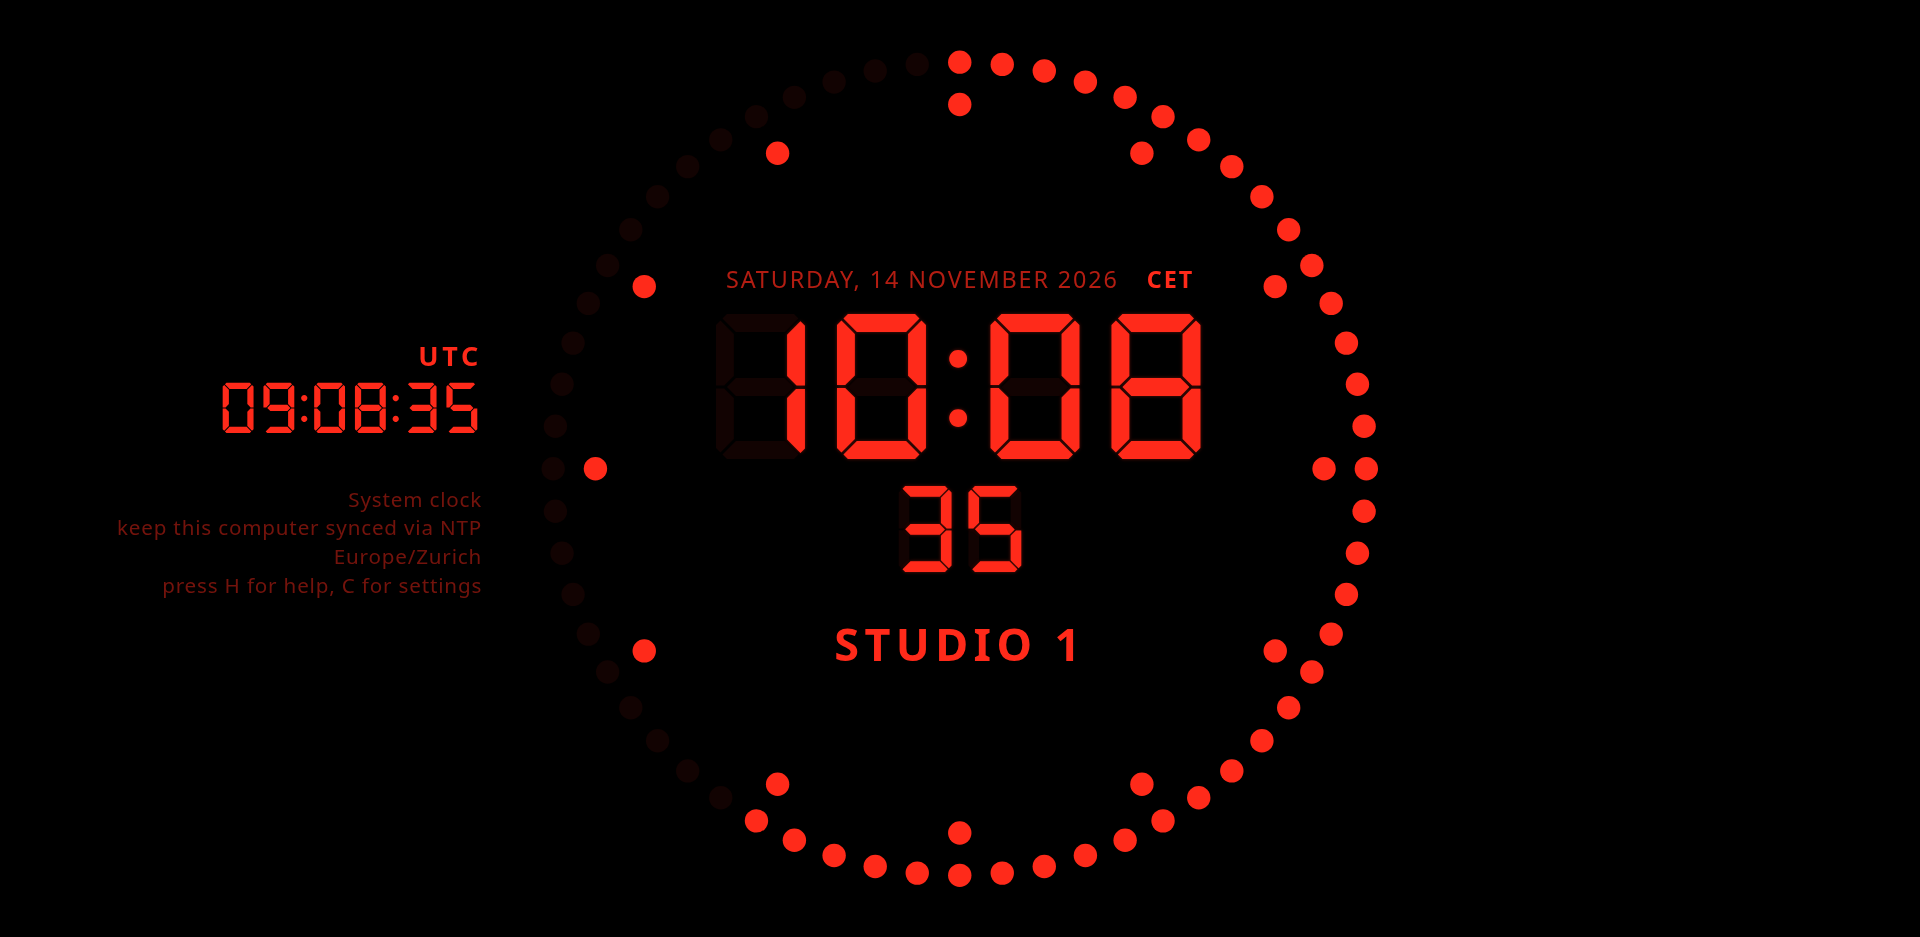
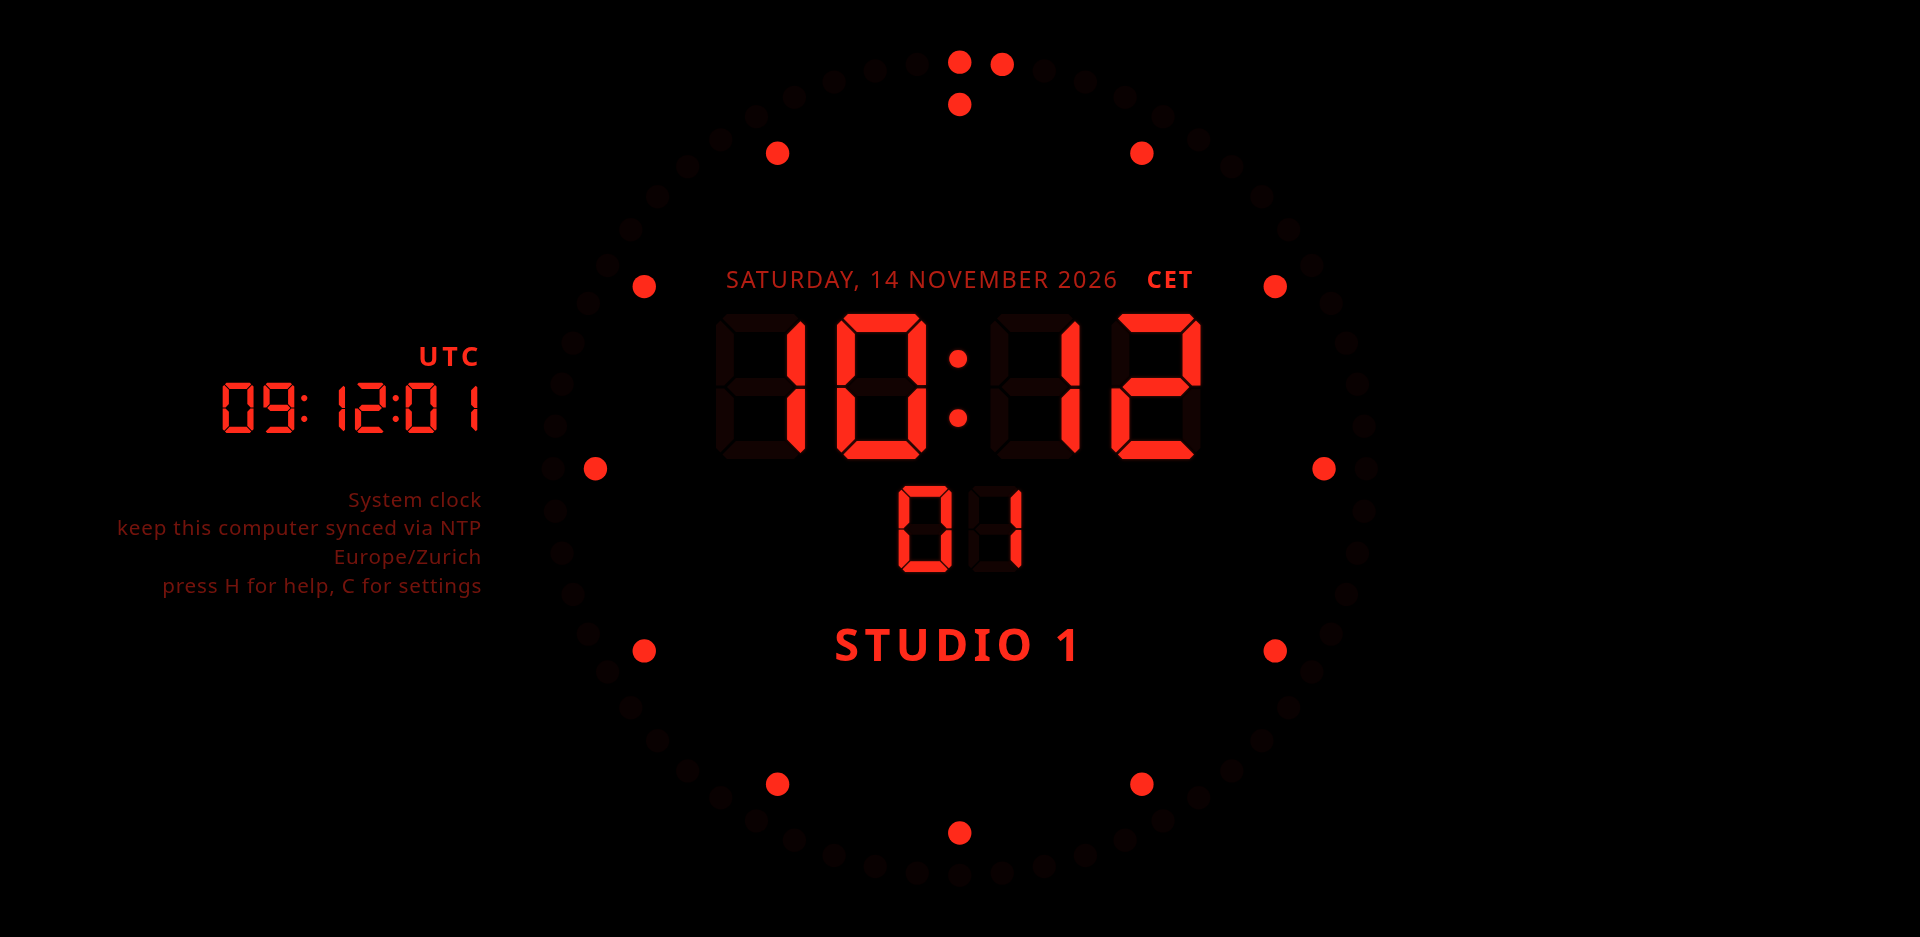
Inactive ring dots darker

diff --git a/master-clock.html b/master-clock.html
@@ -40,7 +40,7 @@
   body.strip .clock { width: min(96vmin, 100vh - var(--strip-h, 17vmin) - 2vmin); height: min(96vmin, 100vh - var(--strip-h, 17vmin) - 2vmin); }
   .ring { position: absolute; inset: 0; width: 100%; height: 100%; }
   body.fade .ring .sec, body.fade .ring .hour, body.fade .center, body.fade .side, body.fade .zones, body.fade .readout .d { transition: fill 2s, color 2s; }
-  .ring .sec { fill: rgba(var(--led-rgb), .07); }
+  .ring .sec { fill: rgba(var(--led-rgb), .035); }
   .ring .sec.on, .ring .hour { fill: rgb(var(--led-rgb)); }
 
   .center {
